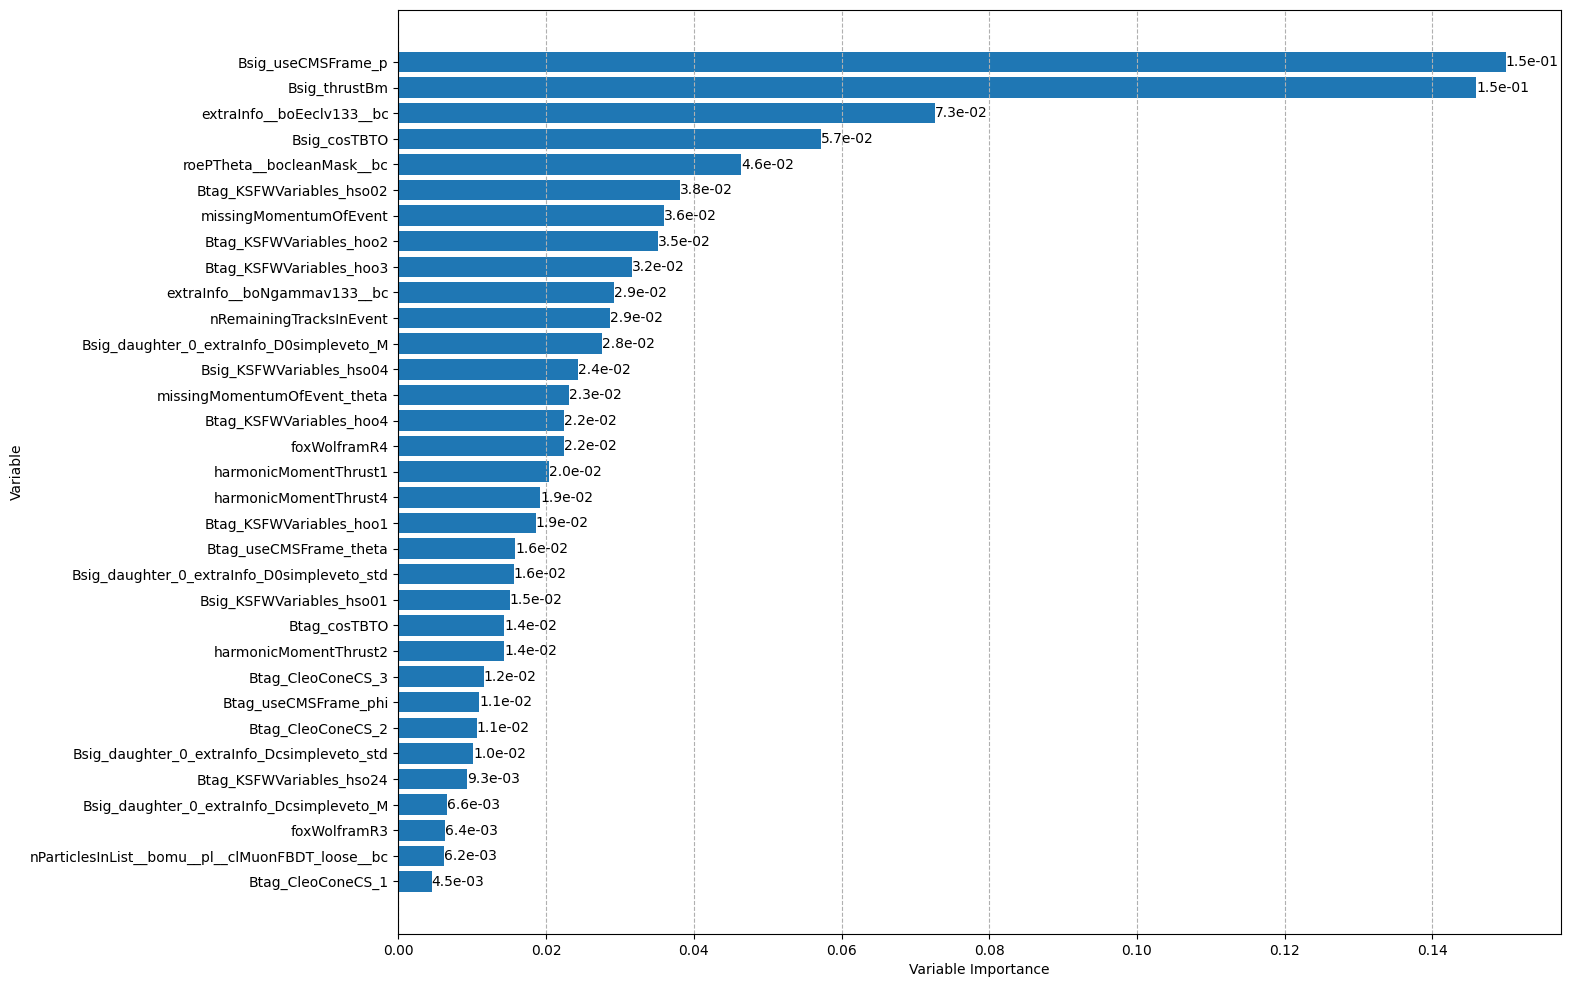
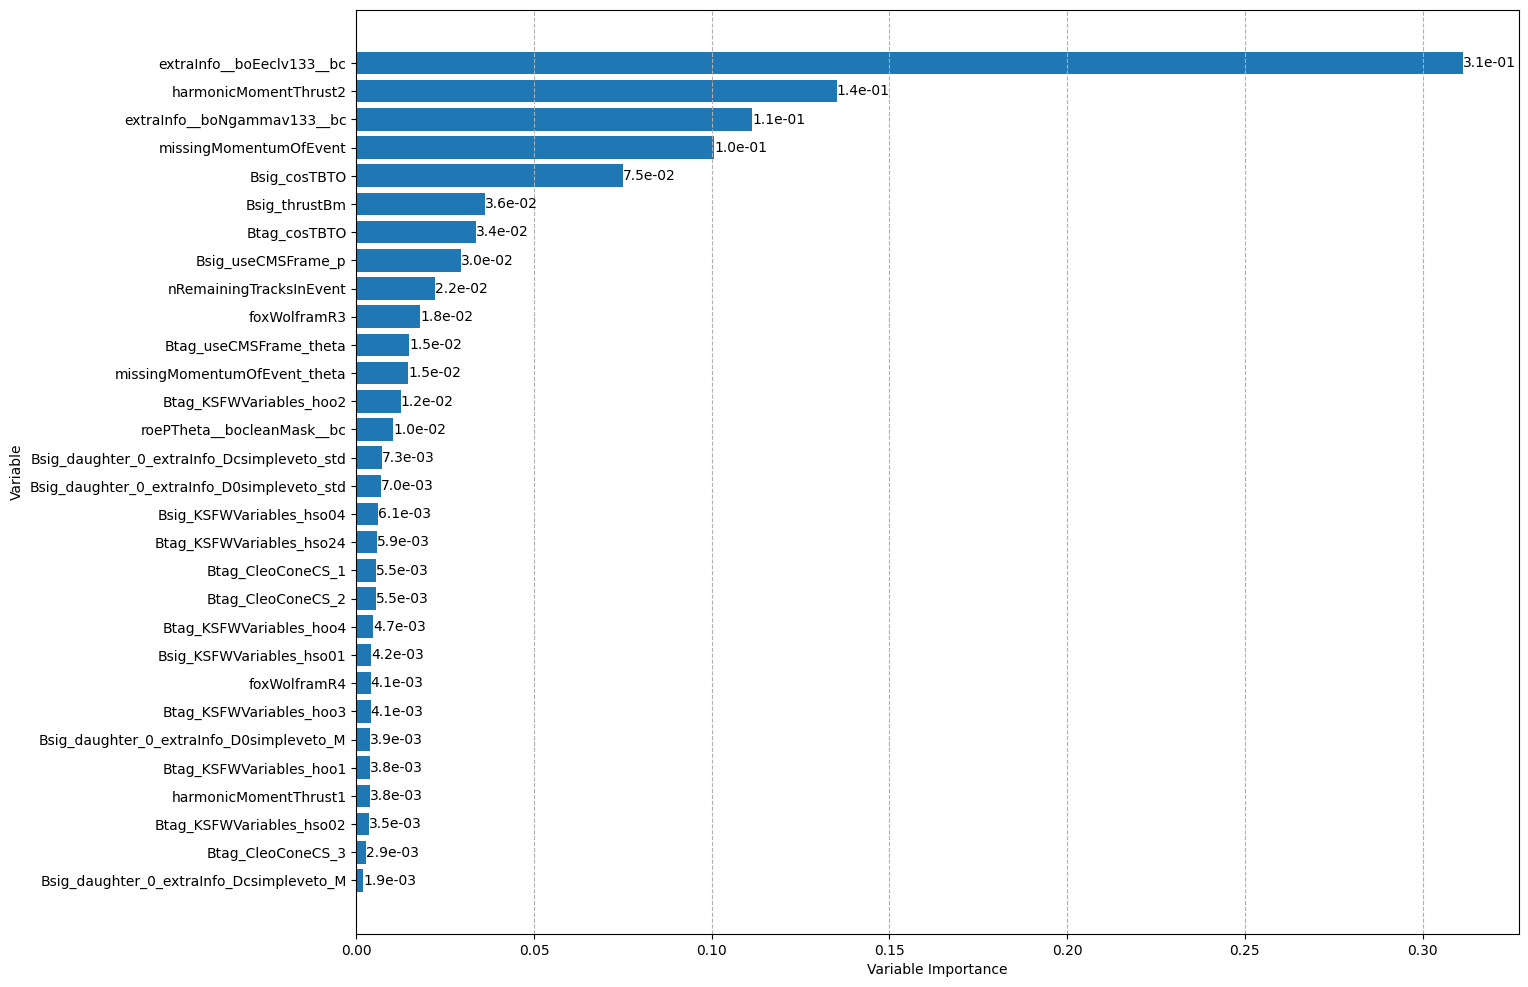
now data/MC

diff --git a/validation_mymodel/Count_code/fragmentation_counter.c b/validation_mymodel/Count_code/fragmentation_counter.c
@@ -1,6 +1,13 @@
 // last update: 2022-07-16
 // for Belle2 data
 
+# define N_Needed_info 37
+# define N_event_info 15
+# define N_Upsilon_info 55
+# define N_Bsig_info 81
+# define N_Btag_info 9
+# define N_decay 48 // five decay mode + others + 10 variables for systematics
+
 // arXiv:1409.4557v2
 # define TB0 1.5195 // (Table. 1)
 # define TBp 1.6384 // (Table. 1)
@@ -135,7 +142,7 @@ enum DecayModeMC { // MC level
     MAX_NUM_DECAYMODE_MC
 };
 
-bool TrueIfDecayModeMatch_MC(double Decay[N_decay], DecayModeMC decaymodeMC) {
+bool TrueIfDecayModeMatch_MC(int Decay[N_decay], DecayModeMC decaymodeMC) {
 
     switch (decaymodeMC) {
     case Xsu2Kc_MC:
@@ -294,7 +301,7 @@ void LetsFill(const char* dirname, double Decay_num[MAX_NUM_DECAYMODE_MC], doubl
     std::vector<string> names;
     load_files(dirname, &names);
 
-    double Decay[N_decay] = { 0.0 };
+    int Decay[N_decay] = { 0 };
 
     for (unsigned int i = 0; i < names.size(); i++) {
 
@@ -382,13 +389,13 @@ int fragmentation_counter(){
     double total_num = 0;
     for (int i = 0; i < MAX_NUM_DECAYMODE_MC; i++) total_num = total_num + Decay_num[i];
 
-    printf("type a: %lf%%\n", (Decay_num[Xsu2K0Pic_MC] + Decay_num[Xsd2KcPic_MC]) / total_num);
-    printf("type b: %lf%%\n", (Decay_num[Xsu2KcPi0_MC] + Decay_num[Xsd2K0Pi0_MC]) / total_num);
-    printf("type c: %lf%%\n", (Decay_num[Xsu2KcPicPic_MC] + Decay_num[Xsd2K0PicPic_MC]) / total_num);
-    printf("type d: %lf%%\n", (Decay_num[Xsu2K0PicPi0_MC] + Decay_num[Xsd2KcPicPi0_MC]) / total_num);
-    printf("type e: %lf%%\n", (Decay_num[Xsu2K0PicPicPic_MC] + Decay_num[Xsd2KcPicPicPic_MC]) / total_num);
-    printf("type f: %lf%%\n", (Decay_num[Xsu2KcPicPicPi0_MC] + Decay_num[Xsd2K0PicPicPi0_MC]) / total_num);
-    printf("type g: %lf%%\n", (Decay_num[Xsu2KcPicPicPicPic_MC] + Decay_num[Xsu2K0PicPicPicPi0_MC] + Decay_num[Xsd2K0PicPicPicPic_MC] + Decay_num[Xsd2KcPicPicPicPi0_MC]) / total_num);
+    printf("type a: %lf%%\n", 100.0 * (Decay_num[Xsu2K0Pic_MC] + Decay_num[Xsd2KcPic_MC]) / total_num);
+    printf("type b: %lf%%\n", 100.0 * (Decay_num[Xsu2KcPi0_MC] + Decay_num[Xsd2K0Pi0_MC]) / total_num);
+    printf("type c: %lf%%\n", 100.0 * (Decay_num[Xsu2KcPicPic_MC] + Decay_num[Xsd2K0PicPic_MC]) / total_num);
+    printf("type d: %lf%%\n", 100.0 * (Decay_num[Xsu2K0PicPi0_MC] + Decay_num[Xsd2KcPicPi0_MC]) / total_num);
+    printf("type e: %lf%%\n", 100.0 * (Decay_num[Xsu2K0PicPicPic_MC] + Decay_num[Xsd2KcPicPicPic_MC]) / total_num);
+    printf("type f: %lf%%\n", 100.0 * (Decay_num[Xsu2KcPicPicPi0_MC] + Decay_num[Xsd2K0PicPicPi0_MC]) / total_num);
+    printf("type g: %lf%%\n", 100.0 * (Decay_num[Xsu2KcPicPicPicPic_MC] + Decay_num[Xsu2K0PicPicPicPi0_MC] + Decay_num[Xsd2K0PicPicPicPic_MC] + Decay_num[Xsd2KcPicPicPicPi0_MC]) / total_num);
 
     return 0;
 }

diff --git a/FastBDT/Var_importance.py b/FastBDT/Var_importance.py
@@ -9,39 +9,36 @@ import matplotlib.pyplot as plt
 
 import operator
 
-unsorted_list = [('Bsig_cosTBTO',0.0572256),
-('Bsig_KSFWVariables_hso01',0.0150911),
-('Bsig_KSFWVariables_hso04',0.024265),
-('Bsig_useCMSFrame_p',0.1499),
-('Btag_CleoConeCS_1',0.00449115),
-('Btag_CleoConeCS_2',0.0105743),
-('Btag_CleoConeCS_3',0.0115667),
-('Btag_cosTBTO',0.0143197),
-('Btag_KSFWVariables_hoo1',0.0185975),
-('Btag_KSFWVariables_hoo2',0.0351522),
-('Btag_KSFWVariables_hoo3',0.0316465),
-('Btag_KSFWVariables_hoo4',0.0224693),
-('Btag_KSFWVariables_hso02',0.0380922),
-('Btag_KSFWVariables_hso24',0.0092871),
-('Btag_useCMSFrame_theta',0.0158178),
-('extraInfo__boEeclv133__bc',0.0726524),
-('extraInfo__boNgammav133__bc',0.0292424),
-('foxWolframR3',0.00635379),
-('foxWolframR4',0.0223789),
-('harmonicMomentThrust1',0.0204177),
-('harmonicMomentThrust2',0.0143004),
-('missingMomentumOfEvent',0.035924),
-('missingMomentumOfEvent_theta',0.0230698),
-('nRemainingTracksInEvent',0.0286217),
-('roePTheta__bocleanMask__bc',0.0463659),
-('Bsig_thrustBm',0.14596),
-('Btag_useCMSFrame_phi',0.0109773),
-('harmonicMomentThrust4',0.0191746),
-('nParticlesInList__bomu__pl__clMuonFBDT_loose__bc',0.00615088),
-('Bsig_daughter_0_extraInfo_Dcsimpleveto_std',0.0101079),
-('Bsig_daughter_0_extraInfo_Dcsimpleveto_M',0.00663294),
-('Bsig_daughter_0_extraInfo_D0simpleveto_std',0.0155866),
-('Bsig_daughter_0_extraInfo_D0simpleveto_M',0.0275865)]
+unsorted_list = [('Bsig_cosTBTO',0.0751316),
+('Bsig_KSFWVariables_hso01',0.00421535),
+('Bsig_KSFWVariables_hso04',0.00605932),
+('Bsig_thrustBm',0.0361318),
+('Bsig_useCMSFrame_p',0.0295386),
+('Btag_CleoConeCS_1',0.00551212),
+('Btag_CleoConeCS_2',0.00550448),
+('Btag_CleoConeCS_3',0.00285481),
+('Btag_cosTBTO',0.0336962),
+('Btag_KSFWVariables_hoo1',0.00382561),
+('Btag_KSFWVariables_hoo2',0.0124959),
+('Btag_KSFWVariables_hoo3',0.00406581),
+('Btag_KSFWVariables_hoo4',0.00473457),
+('Btag_KSFWVariables_hso02',0.00346009),
+('Btag_KSFWVariables_hso24',0.0058533),
+('Btag_useCMSFrame_theta',0.0149139),
+('extraInfo__boEeclv133__bc',0.311495),
+('extraInfo__boNgammav133__bc',0.111438),
+('foxWolframR3',0.0180351),
+('foxWolframR4',0.00406593),
+('harmonicMomentThrust1',0.00379932),
+('harmonicMomentThrust2',0.135232),
+('missingMomentumOfEvent',0.100741),
+('missingMomentumOfEvent_theta',0.0146081),
+('nRemainingTracksInEvent',0.0222412),
+('roePTheta__bocleanMask__bc',0.0103653),
+('Bsig_daughter_0_extraInfo_Dcsimpleveto_std',0.0072559),
+('Bsig_daughter_0_extraInfo_Dcsimpleveto_M',0.00190923),
+('Bsig_daughter_0_extraInfo_D0simpleveto_std',0.00695781),
+('Bsig_daughter_0_extraInfo_D0simpleveto_M',0.00386383)]
 
 sorted_list = sorted(unsorted_list, key=operator.itemgetter(1), reverse=True)
 

diff --git a/side_band/THStack_plot_sideband.c b/side_band/THStack_plot_sideband.c
@@ -1293,7 +1293,7 @@ void THStack_plot_sideband() {
         hhISR_hist[k] = new TH1D("hhISR", (";" + variable_names.at(k) + ";number of candidates").c_str(), bins, min, max);
         stat_error_hist[k] = new TH1D("MC stat error", (";" + variable_names.at(k) + ";number of candidates").c_str(), bins, min, max);
         data_hist[k] = new TH1D("data", (";" + variable_names.at(k) + ";number of candidates").c_str(), bins, min, max);
-        Ratio_hist[k] = new TH1D((variable_names.at(k) + "_ratio").c_str(), ";;MC/data", bins, min, max);
+        Ratio_hist[k] = new TH1D((variable_names.at(k) + "_ratio").c_str(), ";;data/MC", bins, min, max);
     }
 
     int index = std::find(variable_names.begin(), variable_names.end(), std::string("log_{10}SignalProbability")) - variable_names.begin();
@@ -1366,7 +1366,7 @@ void THStack_plot_sideband() {
         //Stack[k]->Add(hhISR_hist[k]);
 
         Ratio_hist[k]->SetLineColor(kBlack); Ratio_hist[k]->SetMarkerStyle(21); Ratio_hist[k]->Sumw2(); Ratio_hist[k]->SetStats(0);
-        Ratio_hist[k]->Divide(stat_error_hist[k], data_hist[k]);
+        Ratio_hist[k]->Divide(data_hist[k], stat_error_hist[k]);
 
         TCanvas* c_temp = new TCanvas("c", "", 800, 800); c_temp->cd();
 

diff --git a/Off_res/THStack_plot_offres.c b/Off_res/THStack_plot_offres.c
@@ -1193,7 +1193,7 @@ void THStack_plot_offres() {
         hhISR_hist[k] = new TH1D("hhISR", (";" + variable_names.at(k) + ";number of candidates").c_str(), bins, min, max);
         stat_error_hist[k] = new TH1D("MC stat error", (";" + variable_names.at(k) + ";number of candidates").c_str(), bins, min, max);
         data_hist[k] = new TH1D("data", (";" + variable_names.at(k) + ";number of candidates").c_str(), bins, min, max);
-        Ratio_hist[k] = new TH1D((variable_names.at(k) + "_ratio").c_str(), ";;MC/data", bins, min, max);
+        Ratio_hist[k] = new TH1D((variable_names.at(k) + "_ratio").c_str(), ";;data/MC", bins, min, max);
     }
 
     int index = std::find(variable_names.begin(), variable_names.end(), std::string("log_{10}SignalProbability")) - variable_names.begin();
@@ -1258,7 +1258,7 @@ void THStack_plot_offres() {
         //Stack[k]->Add(hhISR_hist[k]);
 
         Ratio_hist[k]->SetLineColor(kBlack); Ratio_hist[k]->SetMarkerStyle(21); Ratio_hist[k]->Sumw2(); Ratio_hist[k]->SetStats(0);
-        Ratio_hist[k]->Divide(stat_error_hist[k], data_hist[k]);
+        Ratio_hist[k]->Divide(data_hist[k], stat_error_hist[k]);
 
         TCanvas* c_temp = new TCanvas("c", "", 800, 800); c_temp->cd();
 

diff --git a/Jpsi/THStack_plot_Jpsi.c b/Jpsi/THStack_plot_Jpsi.c
@@ -1326,7 +1326,7 @@ void THStack_plot_Jpsi() {
         signal_hist[k] = new TH1D("signal", (";" + variable_names.at(k) + ";number of candidates").c_str(), bins, min, max);
         stat_error_hist[k] = new TH1D("MC stat error", (";" + variable_names.at(k) + ";number of candidates").c_str(), bins, min, max);
         data_hist[k] = new TH1D("data", (";" + variable_names.at(k) + ";number of candidates").c_str(), bins, min, max);
-        Ratio_hist[k] = new TH1D((variable_names.at(k) + "_ratio").c_str(), ";;MC/data", bins, min, max);
+        Ratio_hist[k] = new TH1D((variable_names.at(k) + "_ratio").c_str(), ";;data/MC", bins, min, max);
     }
 
     int index = std::find(variable_names.begin(), variable_names.end(), std::string("log_{10}SignalProbability")) - variable_names.begin();
@@ -1403,7 +1403,7 @@ void THStack_plot_Jpsi() {
         Stack[k]->Add(signal_hist[k]);
 
         Ratio_hist[k]->SetLineColor(kBlack); Ratio_hist[k]->SetMarkerStyle(21); Ratio_hist[k]->Sumw2(); Ratio_hist[k]->SetStats(0);
-        Ratio_hist[k]->Divide(stat_error_hist[k], data_hist[k]);
+        Ratio_hist[k]->Divide(data_hist[k], stat_error_hist[k]);
 
         TCanvas* c_temp = new TCanvas("c", "", 800, 800); c_temp->cd();
 
